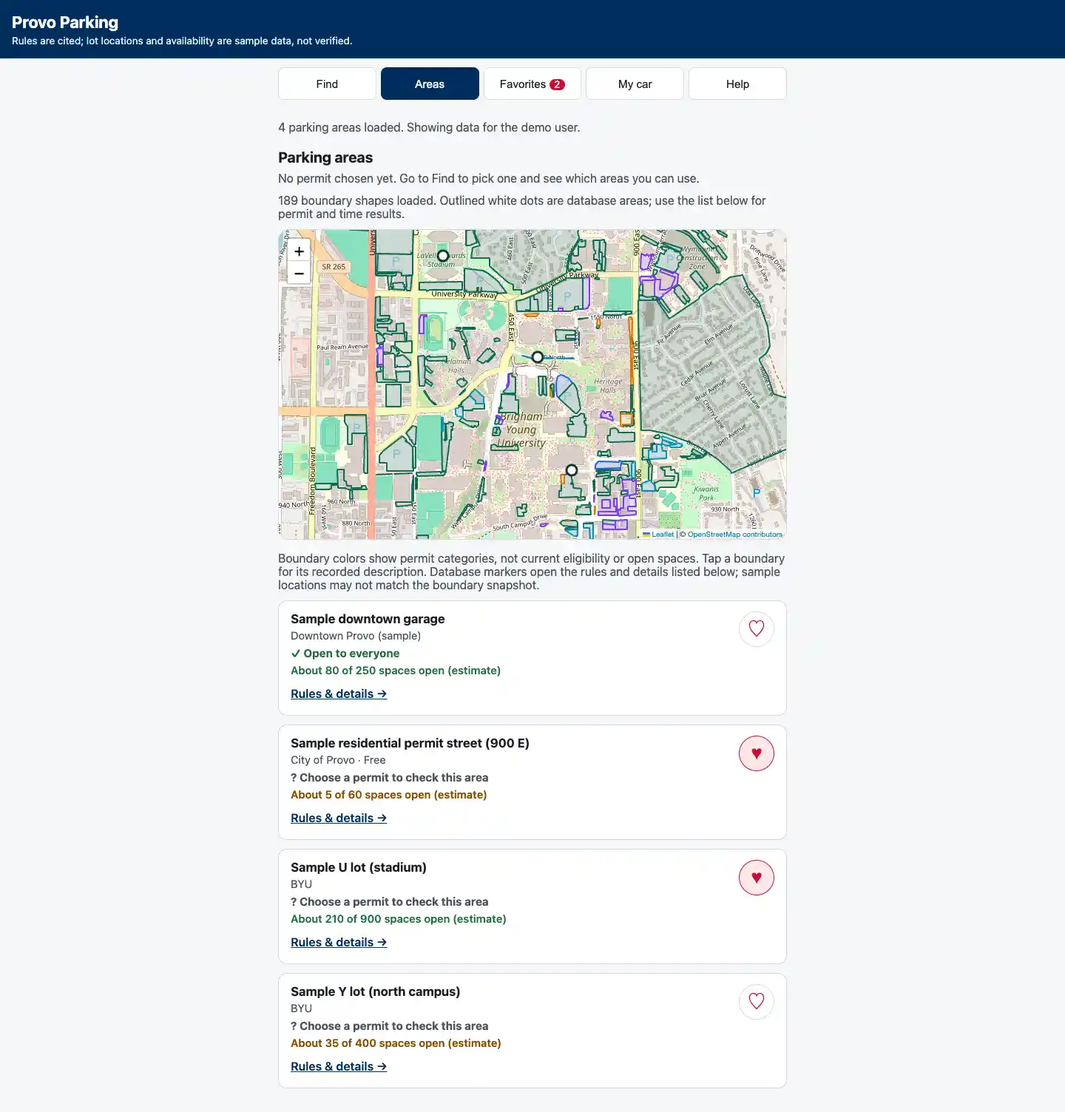
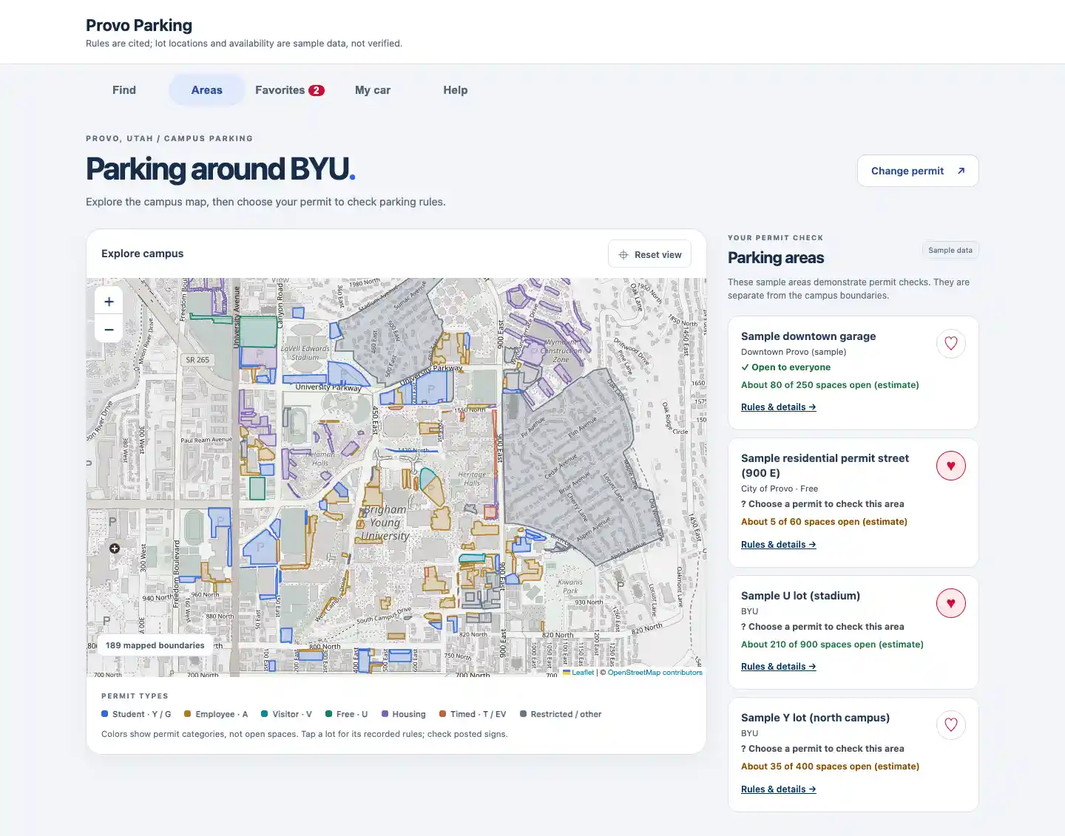
Remove sample map circles and refine the Areas interface

diff --git a/css/styles.css b/css/styles.css
@@ -70,6 +70,87 @@ select:focus-visible, input:focus-visible, .primary:focus-visible, .secondary:fo
 .help a { color: var(--brand); }
 @media (max-width: 380px) { .tab { font-size: .78rem; } }
 
-.parking-map { height: 420px; margin: 12px 0 16px; border: 1px solid var(--border); border-radius: 14px; overflow: hidden; background: #e7edf0; }
-.parking-map .leaflet-control-attribution { font-size: 10px; }
-@media (max-width: 640px) { .parking-map { height: clamp(360px, 52vh, 480px); margin-inline: -4px; } }
+/* Areas: a quiet canvas with the parking boundaries in the foreground. */
+body:has(#view-areas:not([hidden])) { background: #f3f5f8; }
+body:has(#view-areas:not([hidden])) main { max-width: 1240px; padding-top: 38px; }
+body:has(#view-areas:not([hidden])) .tabs { max-width: 1240px; gap: 8px; }
+body:has(#view-areas:not([hidden])) .status:not(.error) { display: none; }
+body:has(#view-areas:not([hidden])) .top { padding: 20px max(24px, calc((100vw - 1208px) / 2)); background: #fff; color: #152943; border-bottom: 1px solid #dfe5ed; }
+body:has(#view-areas:not([hidden])) .sample-note { color: #52647a; font-size: .78rem; }
+body:has(#view-areas:not([hidden])) .tab { flex: none; min-width: 104px; border: 0; border-radius: 30px; background: transparent; color: #52647a; font-weight: 600; }
+body:has(#view-areas:not([hidden])) .tab[aria-current="page"] { background: #e0e9fc; color: #214da7; }
+.areas-heading { display: flex; justify-content: space-between; align-items: center; gap: 20px; margin-bottom: 28px; }
+.eyebrow { font-size: .65rem; letter-spacing: .15em; font-weight: 750; color: #5c6c80; margin: 0 0 10px; }
+.areas-heading h2 { font-size: clamp(1.9rem, 3vw, 2.65rem); line-height: 1.15; letter-spacing: -.045em; color: #172d49; margin: 0 0 12px; }
+.areas-heading h2 span { color: #3168dc; }
+.areas-heading .summary { font-size: .9rem; margin: 0; color: #52647a; }
+.permit-link { flex-shrink: 0; display: inline-flex; gap: 18px; align-items: center; min-height: 44px; padding: 0 18px; background: #fff; border: 1px solid #cfd8e5; border-radius: 12px; text-decoration: none; color: #254b89; font-weight: 650; font-size: .85rem; }
+.permit-link:hover { border-color: #3168dc; background: #eef3ff; }
+.parking-workspace { display: grid; grid-template-columns: minmax(0, 1fr) 340px; gap: 28px; align-items: start; }
+.map-panel { background: #fff; border: 1px solid #dbe2eb; border-radius: 22px; overflow: hidden; box-shadow: 0 8px 26px #183b6010; }
+.map-toolbar { padding: 14px 20px; display: flex; align-items: center; justify-content: space-between; gap: 12px; }
+.map-toolbar h3 { margin: 0; font-size: .9rem; color: #263d58; font-weight: 650; }
+.map-reset { border: 1px solid #dbe2eb; background: #fff; color: #435871; font: inherit; font-size: .75rem; font-weight: 600; border-radius: 9px; min-height: 38px; padding: 0 12px; cursor: pointer; }
+.map-reset span { font-size: 1.1rem; margin-right: 4px; }
+.map-reset:hover { background: #f0f4fb; }
+.map-reset:disabled { cursor: default; opacity: .5; }
+.map-stage { position: relative; }
+.parking-map { height: 540px; width: 100%; background: #e9edf1; z-index: 0; }
+.parking-map .leaflet-tile-pane { filter: saturate(.12) brightness(1.04) contrast(.9); }
+.parking-map .leaflet-control-zoom { border: 1px solid #d6dfe8; border-radius: 12px; overflow: hidden; box-shadow: 0 3px 12px #19385814; }
+.parking-map .leaflet-control-zoom a { width: 38px; height: 38px; line-height: 38px; color: #274666; background: #fff; font-size: 22px; }
+.parking-map .leaflet-control-attribution { font-size: 10px; background: #ffffffed; }
+.map-status { position: absolute; left: 14px; bottom: 28px; z-index: 1; max-width: calc(100% - 28px); margin: 0; border: 1px solid #d8e1ed; border-radius: 9px; padding: 8px 11px; background: #fffffff2; color: #3b526d; font-size: .69rem; font-weight: 650; box-shadow: 0 2px 8px #183b6010; pointer-events: none; }
+.map-key { padding: 20px 20px 12px; }
+.key-title { font-size: .61rem; font-weight: 750; letter-spacing: .14em; color: #607187; margin: 0 0 12px; }
+.map-legend { display: flex; flex-wrap: wrap; gap: 10px 18px; list-style: none; padding: 0; margin: 0; }
+.map-legend li { display: flex; gap: 6px; align-items: center; font-size: .7rem; color: #45566b; font-weight: 550; }
+.legend-dot { width: 9px; height: 9px; border-radius: 3px; display: inline-block; flex-shrink: 0; }
+.map-note { margin: 0; padding: 0 20px 18px; font-size: .72rem; color: #566980; line-height: 1.55; }
+.parking-results { min-width: 0; }
+.results-heading { display: flex; align-items: center; justify-content: space-between; gap: 8px; padding: 7px 0 0; }
+.results-heading .eyebrow { margin-bottom: 8px; font-size: .59rem; }
+.results-heading h3 { margin: 0; font-size: 1.35rem; letter-spacing: -.025em; color: #172d49; }
+.sample-label { border: 1px solid #d7dfe9; background: #edf1f6; color: #56677d; padding: 5px 8px; border-radius: 7px; font-size: .62rem; white-space: nowrap; }
+.results-note { color: #5d6e83; font-size: .75rem; line-height: 1.5; margin: 12px 0 18px; }
+.parking-results .cards { gap: 10px; }
+.parking-results .card { border-color: #dbe2eb; padding: 17px; border-radius: 15px; }
+.parking-results .card h3 { color: #243b58; font-size: .9rem; line-height: 1.4; }
+.parking-results .meta { font-size: .72rem; }
+.parking-results .elig, .parking-results .avail { font-size: .76rem; line-height: 1.45; }
+.parking-results .link { font-size: .75rem; margin-top: 8px; }
+.parking-results .heart { flex-shrink: 0; width: 40px; height: 40px; font-size: 1.25rem; }
+.parking-map .leaflet-popup-content-wrapper { border-radius: 16px; box-shadow: 0 7px 28px #18344c25; }
+.lot-popup { color: #243b58; font-family: system-ui, sans-serif; }
+.lot-popup-type { color: #5c7089; font-size: .65rem; }
+.lot-popup h3 { font-size: 1.4rem; margin: 6px 0 10px; letter-spacing: -.035em; }
+.lot-popup-permit { display: inline-block; background: #eaf0fd; color: #2954a0; border-radius: 6px; padding: 4px 8px; font-size: .7rem; font-weight: 650; }
+.lot-popup p { font-size: .78rem; line-height: 1.6; margin: 12px 0 0; }
+.permit-link:focus-visible, .map-reset:focus-visible { outline: 3px solid #3168dc; outline-offset: 3px; }
+@media (max-width: 980px) {
+  .parking-workspace { grid-template-columns: minmax(0, 1fr); gap: 30px; }
+  .parking-results .cards { grid-template-columns: repeat(2, minmax(0, 1fr)); }
+  .parking-map { height: 470px; }
+}
+@media (max-width: 600px) {
+  body:has(#view-areas:not([hidden])) main { padding: 26px 16px 32px; }
+  body:has(#view-areas:not([hidden])) .top { padding: 16px 20px; }
+  body:has(#view-areas:not([hidden])) .tabs { gap: 0; padding-inline: 12px; }
+  body:has(#view-areas:not([hidden])) .tab { flex: 1; min-width: 0; padding: 0 6px; font-size: .8rem; }
+  .areas-heading { display: block; margin-bottom: 22px; }
+  .areas-heading .eyebrow { font-size: .58rem; }
+  .areas-heading h2 { font-size: 1.9rem; }
+  .areas-heading .summary { font-size: .8rem; line-height: 1.5; }
+  .permit-link { margin-top: 16px; min-height: 40px; padding: 0 12px; font-size: .75rem; }
+  .map-panel { border-radius: 18px; }
+  .map-toolbar { padding: 10px 14px; }
+  .parking-map { height: 420px; }
+  .map-key { padding: 16px 14px 12px; }
+  .map-legend { gap: 10px 14px; }
+  .map-legend li { font-size: .65rem; }
+  .map-note { padding: 0 14px 16px; font-size: .68rem; }
+  .parking-results .cards { grid-template-columns: 1fr; }
+  .parking-results .card { padding: 18px; }
+  .parking-results .heart { width: 44px; height: 44px; }
+}
+.map-stage:has(.parking-map[hidden]) .map-status { position: static; margin: 14px; max-width: none; box-shadow: none; }

diff --git a/js/pages/map.js b/js/pages/map.js
@@ -7,21 +7,28 @@ function setMapStatus(message) {
   if (el) el.textContent = message;
 }
 
-function coordinates(area) {
-  const lat = area.latitude;
-  const lng = area.longitude;
-  if (lat == null || lng == null || String(lat).trim() === "" || String(lng).trim() === "") return null;
-  const point = [Number(lat), Number(lng)];
-  return Number.isFinite(point[0]) && Math.abs(point[0]) <= 90 &&
-    Number.isFinite(point[1]) && Math.abs(point[1]) <= 180 ? point : null;
+const categories = [
+  { label: "Student · Y / G", color: "#3168dc", codes: ["Y", "G"] },
+  { label: "Employee · A", color: "#b07b23", codes: ["A"] },
+  { label: "Visitor · V", color: "#07859a", codes: ["V"] },
+  { label: "Free · U", color: "#16806b", codes: ["U"] },
+  { label: "Housing", color: "#8062b3", codes: ["B", "C", "D", "YM", "YV", "BCD"] },
+  { label: "Timed · T / EV", color: "#c2643a", codes: ["T", "EV"] },
+  { label: "Restricted / other", color: "#687589", codes: [] },
+];
+
+function boundaryStyle(feature) {
+  const permit = feature?.properties?.permit_typ;
+  const category = categories.find((item) => item.codes.includes(permit)) || categories.at(-1);
+  return { color: category.color, weight: 1.6, fillColor: category.color, fillOpacity: 0.24 };
 }
 
-export async function initMap({ areas }) {
+export async function initMap() {
   const el = document.querySelector("#parking-map");
   if (!el) return;
   if (!window.L) {
     el.hidden = true;
-    setMapStatus("Map unavailable. Use the parking list below to view rules and details.");
+    setMapStatus("Map unavailable. Use the parking list to view rules and details.");
     return;
   }
   if (map) { refreshMap(); return; }
@@ -33,17 +40,12 @@ export async function initMap({ areas }) {
       attribution: '&copy; <a href="https://www.openstreetmap.org/copyright">OpenStreetMap contributors</a>'
     }).addTo(map);
 
-    // Show database markers immediately, even if the geometry request fails.
-    const markers = [];
-    for (const area of areas || []) {
-      const point = coordinates(area);
-      if (!point) continue;
-      const details = Number.isInteger(area.area_id) && area.area_id > 0
-        ? `<br><a href="#area/${area.area_id}">Rules &amp; details</a>` : "";
-      const marker = L.circleMarker(point, { radius: 7, color: "#17332b", fillColor: "#ffffff", fillOpacity: 0.95, weight: 3 })
-        .bindPopup(`<strong>${escapeHtml(area.area_name)}</strong><br>${escapeHtml(area.lot_code || "")}${details}`)
-        .addTo(map);
-      markers.push(marker);
+    const legend = document.getElementById("map-legend");
+    if (legend) legend.innerHTML = categories.map((item) => `<li><span class="legend-dot" style="background:${item.color}" aria-hidden="true"></span>${escapeHtml(item.label)}</li>`).join("");
+    const reset = document.getElementById("map-reset");
+    if (reset) {
+      reset.disabled = false;
+      reset.addEventListener("click", () => map.setView([40.2518, -111.6493], 15));
     }
     refreshMap();
     try {
@@ -52,28 +54,23 @@ export async function initMap({ areas }) {
       const geometry = await response.json();
       if (geometry.type !== "FeatureCollection" || !Array.isArray(geometry.features)) throw new Error("Invalid boundary snapshot");
       L.geoJSON(geometry, {
-        style: (feature) => {
-          const permit = feature?.properties?.permit_typ || "";
-          const color = !permit || permit === "No BYU Parking" ? "#5d6878" : permit === "V" ? "#2563eb" : permit === "T" ? "#d97706" : permit === "R" ? "#7c3aed" : permit === "G" ? "#0891b2" : "#126b53";
-          return { color, weight: 2, fillColor: color, fillOpacity: 0.16 };
-        },
+        style: boundaryStyle,
         onEachFeature: (feature, layer) => {
           const p = feature.properties || {};
-          layer.bindPopup(`<strong>${escapeHtml(p.Lot_Type || "BYU parking area")}</strong><br>Permit category: ${escapeHtml(p.permit_typ || "Not recorded")}<br>${escapeHtml(p.Descriptio || "See posted signage.")}`);
+          layer.bindPopup(`<div class="lot-popup"><span class="lot-popup-type">${escapeHtml(p.Map_Catego || "Parking boundary")}</span><h3>${escapeHtml(p.Lot_Type || "BYU parking area")}</h3><span class="lot-popup-permit">Permit ${escapeHtml(p.permit_typ || "not recorded")}</span><p>${escapeHtml(p.Descriptio || "See posted signage.")}</p></div>`, { maxWidth: 280 });
         }
       }).addTo(map);
-      for (const marker of markers) marker.bringToFront();
-      setMapStatus(`${geometry.features.length} boundary shapes loaded. Outlined white dots are database areas; use the list below for permit and time results.`);
+      setMapStatus(`${geometry.features.length} mapped boundaries`);
     } catch (error) {
       console.warn("[map] boundary snapshot unavailable", error);
-      setMapStatus("Lot boundaries unavailable. Database markers and the parking list are still available.");
+      setMapStatus("Lot boundaries unavailable. The parking list is still available.");
     }
   } catch (error) {
     console.warn("[map] unavailable", error);
     if (map) map.remove();
     map = null;
     el.hidden = true;
-    setMapStatus("Map unavailable. Use the parking list below to view rules and details.");
+    setMapStatus("Map unavailable. Use the parking list to view rules and details.");
   }
 }
 

diff --git a/tests/map.test.js b/tests/map.test.js
@@ -3,7 +3,7 @@ import assert from 'node:assert/strict';
 import { readFile } from 'node:fs/promises';
 import { initMap } from '../js/pages/map.js';
 
-test('map skips absent and out-of-range coordinates rather than plotting them at zero', async () => {
+test('map never plots sample database circles', async () => {
   const plotted = [];
   const map = { setView() { return this; }, fitBounds() {}, invalidateSize() {} };
   const layer = { addTo() { return this; }, bindPopup() { return this; }, bringToFront() {} };
@@ -13,7 +13,7 @@ test('map skips absent and out-of-range coordinates rather than plotting them at
     latLngBounds: (points) => points,
   } };
   globalThis.L = window.L;
-  globalThis.document = { querySelector: () => ({ hidden: false }), getElementById: () => ({ textContent: '' }) };
+  globalThis.document = { querySelector: () => ({ hidden: false }), getElementById: (id) => id === 'map-status' ? { textContent: '' } : null };
   const oldFetch = globalThis.fetch;
   globalThis.fetch = async () => ({ ok: true, json: async () => ({ type: 'FeatureCollection', features: [] }) });
   try {
@@ -22,7 +22,7 @@ test('map skips absent and out-of-range coordinates rather than plotting them at
       { latitude: null, longitude: null }, { latitude: '', longitude: '' },
       { latitude: 100, longitude: -111 }, { latitude: 40, longitude: -190 },
     ] });
-    assert.deepEqual(plotted, [[40.25, -111.65]]);
+    assert.deepEqual(plotted, []);
   } finally { globalThis.fetch = oldFetch; delete globalThis.L; delete globalThis.window; delete globalThis.document; }
 });
 
@@ -36,7 +36,7 @@ test('missing map library leaves a useful list fallback', async () => {
   const container = { hidden: false };
   const status = { textContent: '' };
   globalThis.window = {};
-  globalThis.document = { querySelector: () => container, getElementById: () => status };
+  globalThis.document = { querySelector: () => container, getElementById: (id) => id === 'map-status' ? status : null };
   try {
     await init({ areas: [] });
     assert.equal(container.hidden, true);
@@ -44,7 +44,7 @@ test('missing map library leaves a useful list fallback', async () => {
   } finally { delete globalThis.window; delete globalThis.document; }
 });
 
-test('failed boundary download keeps database markers available with a visible warning', async () => {
+test('failed boundary download keeps the parking list available with a visible warning', async () => {
   const { initMap: init } = await import('../js/pages/map.js?failed-boundaries');
   const plotted = [];
   const status = { textContent: '' };
@@ -52,16 +52,16 @@ test('failed boundary download keeps database markers available with a visible w
   const layer = { addTo() { return this; }, bindPopup() { return this; } };
   globalThis.window = { L: { map: () => map, tileLayer: () => layer,
     circleMarker: (point) => { plotted.push(point); return layer; } } };
-  globalThis.document = { querySelector: () => ({}), getElementById: () => status };
+  globalThis.document = { querySelector: () => ({}), getElementById: (id) => id === 'map-status' ? status : null };
   const oldFetch = globalThis.fetch;
   const oldWarn = console.warn;
   globalThis.fetch = async () => ({ ok: false, status: 404 });
   console.warn = () => {};
   try {
     await init({ areas: [{ area_id: 1, area_name: 'Test lot', latitude: 40.25, longitude: -111.65 }] });
-    assert.equal(plotted.length, 1);
+    assert.equal(plotted.length, 0);
     assert.match(status.textContent, /boundaries unavailable/);
-    assert.match(status.textContent, /markers and the parking list are still available/);
+    assert.match(status.textContent, /parking list is still available/);
   } finally { globalThis.fetch = oldFetch; console.warn = oldWarn; delete globalThis.window; delete globalThis.document; }
 });
 
@@ -72,7 +72,7 @@ test('boundary colors distinguish visitor permits from YV and mark missing or pr
   const layer = { addTo() { return this; } };
   globalThis.window = { L: { map: () => map, tileLayer: () => layer,
     geoJSON: (_, options) => { style = options.style; return layer; } } };
-  globalThis.document = { querySelector: () => ({}), getElementById: () => ({ textContent: '' }) };
+  globalThis.document = { querySelector: () => ({}), getElementById: (id) => id === 'map-status' ? { textContent: '' } : null };
   const oldFetch = globalThis.fetch;
   globalThis.fetch = async () => ({ ok: true, json: async () => ({ type: 'FeatureCollection', features: [] }) });
   try {

diff --git a/index.html b/index.html
@@ -56,12 +56,26 @@
 
     <!-- Screen 2: Areas — list with eligibility -->
     <section id="view-areas" aria-labelledby="h-areas" hidden>
-      <h2 id="h-areas" tabindex="-1">Parking areas</h2>
-      <p id="areas-summary" class="summary"></p>
-      <p id="map-status" class="summary" role="status">Loading parking map…</p>
-      <div id="parking-map" class="parking-map" role="region" aria-label="BYU parking map" aria-describedby="map-note"></div>
-      <p id="map-note" class="summary">Boundary colors show permit categories, not current eligibility or open spaces. Tap a boundary for its recorded description. Database markers open the rules and details listed below; sample locations may not match the boundary snapshot.</p>
-      <ul id="area-list" class="cards"></ul>
+      <div class="areas-heading">
+        <div><p class="eyebrow">PROVO, UTAH / CAMPUS PARKING</p><h2 id="h-areas" tabindex="-1">Parking around BYU<span>.</span></h2><p id="areas-summary" class="summary"></p></div>
+        <a class="permit-link" href="#find">Change permit <span aria-hidden="true">↗</span></a>
+      </div>
+      <div class="parking-workspace">
+        <div class="map-panel">
+          <div class="map-toolbar"><h3>Explore campus</h3><button id="map-reset" type="button" class="map-reset" disabled><span aria-hidden="true">⌖</span> Reset view</button></div>
+          <div class="map-stage">
+            <div id="parking-map" class="parking-map" role="region" aria-label="BYU parking map" aria-describedby="map-note"></div>
+            <p id="map-status" class="map-status" role="status">Loading campus boundaries…</p>
+          </div>
+          <div class="map-key"><p class="key-title">PERMIT TYPES</p><ul id="map-legend" class="map-legend" aria-label="Parking boundary colors"></ul></div>
+          <p id="map-note" class="map-note">Colors show permit categories, not open spaces. Tap a lot for its recorded rules; check posted signs.</p>
+        </div>
+        <aside class="parking-results" aria-labelledby="results-heading">
+          <div class="results-heading"><div><p class="eyebrow">YOUR PERMIT CHECK</p><h3 id="results-heading">Parking areas</h3></div><span class="sample-label">Sample data</span></div>
+          <p class="results-note">These sample areas demonstrate permit checks. They are separate from the campus boundaries.</p>
+          <ul id="area-list" class="cards"></ul>
+        </aside>
+      </div>
     </section>
 
     <!-- Screen 3: Area details — plain-language rules -->

diff --git a/js/pages/areas.js b/js/pages/areas.js
@@ -15,6 +15,6 @@ export function renderAreas() {
   const { permitId, day, time } = state.find;
   const permit = state.permits.find((p) => p.permit_id === permitId);
   $("areas-summary").textContent = permit
-    ? `Showing ${DAY_NAMES[day]} at ${fmtTime(time)} with the ${permit.permit_name} permit. Change this on the Find screen.`
-    : "No permit chosen yet. Go to Find to pick one and see which areas you can use.";
+    ? `${permit.permit_name} · ${DAY_NAMES[day]} at ${fmtTime(time)}`
+    : "Explore the campus map, then choose your permit to check parking rules.";
 }

diff --git a/js/router.js b/js/router.js
@@ -29,7 +29,7 @@ export function showView() {
     if (t.dataset.view === tabFor) t.setAttribute("aria-current", "page"); else t.removeAttribute("aria-current");
   });
   renderViews();
-  if (state.currentView === "areas") void initMap({ areas: state.areas });
+  if (state.currentView === "areas") void initMap();
   if (state.currentView === "car") renderCar(); else stopTimer();
   document.querySelector(`#view-${state.currentView} h2[tabindex]`)?.focus({ preventScroll: true });
   window.scrollTo(0, 0);

diff --git a/docs/map-integration.md b/docs/map-integration.md
@@ -1,33 +1,31 @@
 # BYU map integration — PR #11
 
-The Areas screen now includes a Leaflet 1.9.4 map over OpenStreetMap tiles, the 189 boundary features supplied in PR #11, and markers for database parking areas with valid coordinates. Tap a boundary for its recorded permit category and description; tap a white database marker to open the existing area details page.
+The Areas screen includes a Leaflet 1.9.4 map with the 189 BYU boundary features supplied in PR #11. Sample database location circles have been removed at Parker's request. Tap a boundary for its recorded permit category and description. The separate parking list retains the existing database permit/day/time checks and detail links.
 
-The map is initialized after Areas becomes visible and resized on return. It does not delay loading the rest of the application. The same parking list remains available for keyboard and screen reader use. Boundary colors describe categories, not eligibility or occupancy; permit/day/time eligibility still comes from the existing database rules and appears in the list. The snapshot has no verified join to database area IDs. Do not infer one from proximity.
+## Interface
 
-## Fixes during integration
+- Map and permit results sit side by side on laptops, then stack on phones.
+- Street tiles are desaturated through CSS so colored parking boundaries stand out; linked OpenStreetMap attribution stays visible.
+- A labeled legend explains student, employee, visitor, U, housing, timed and restricted/other categories. Color is not the only way to identify a category: every boundary popup shows the category text.
+- Reset view returns to the campus center at zoom 15. Wheel zoom is disabled to make page scrolling easier.
+- The map initializes after Areas becomes visible, resizes on return, and does not delay loading the rest of the app. Missing map resources leave the list available with a visible message.
+- The correct [Leaflet stylesheet integrity hash](https://leafletjs.com/download) and `data/` in the Pages artifact fix the original PR's deployment issues.
 
-- Corrected the Leaflet CSS integrity hash to the [official published value](https://leafletjs.com/download).
-- Included `data/` in the GitHub Pages artifact, preventing a missing boundary file after deployment.
-- Kept database markers usable when the boundary download fails, with a visible warning; missing Leaflet falls back to the list.
-- Rejected null, empty, nonfinite and out-of-range coordinates rather than plotting them at zero.
-- Added app detail links to database marker popups and kept these markers above boundary shapes.
-- Used exact permit categories so YV is not mistaken for V; absent / No BYU Parking categories use neutral gray.
-- Used a bounded map height on phones and turned off wheel zoom so scrolling the page does not unexpectedly zoom the map.
-- Preserved linked OpenStreetMap attribution and used the standard tile URL. See the [tile usage policy](https://operations.osmfoundation.org/policies/tiles/). No bulk tile downloads or offline prefetching.
+## Data limitations
 
-## Data provenance and limitations
+Colors show categories, not current eligibility or occupancy. The boundary snapshot has no verified join to database area IDs. The list is labeled as sample data and kept visually distinct from the boundary map. No database rows, policies or credentials changed.
 
-`data/byu-campus-parking.json` is the unchanged snapshot supplied by PR #11. Its fields include Lot, Lot_Type, permit_typ and Descriptio. The original ArcGIS service identifier, retrieval date and verification record were not included in that PR, so this integration does not certify its descriptions as current official parking rules. Compare with [BYU's campus map](https://map.byu.edu/) and posted signs when verifying lots. Database lot coordinates, occupancy estimates and tow contacts remain samples. This is not a live occupancy feed or a navigation engine.
+`data/byu-campus-parking.json` remains the original PR snapshot. Its original ArcGIS service identifier, retrieval date and verification record were not supplied, so current official-rule verification remains outstanding. Compare with [BYU's campus map](https://map.byu.edu/) and posted signs. Database lot coordinates, occupancy estimates and tow contacts remain samples.
+
+The map uses the standard OpenStreetMap tile URL, preserves attribution and performs no bulk downloads or offline prefetching. See the [tile usage policy](https://operations.osmfoundation.org/policies/tiles/).
 
 ## Verification — November 1, 2026
 
-- All 22 Node tests pass, including coordinate validation, permit category distinctions, missing-library fallback and failed boundary download. The coordinate and deployment tests failed against the original PR; the category test exposed the YV/V collision before its fix.
-- Every JS file passes `node --check`; `git diff --check` passes.
-- Local preview using the app's existing public Supabase configuration: four areas and 189 boundary shapes load; no browser console errors/warnings observed in the normal path.
-- Y permit / Monday / 08:00: Y and U sample lots allowed, residential street not covered. Boundaries stay category based, as explained on screen.
-- Tapped a boundary and read its popup; tapped the stadium database marker and followed its Rules & details link to the existing area page.
-- Reload and returning from details to Areas retain a correctly sized map. Saved permit choice is preserved; arrival defaults retain existing behavior.
-- Lighthouse accessibility: 100/100 at phone 390×844 and laptop 1440×900, no run warnings. Captures visually inspected; this is emulation, not a manual real-phone or screen-reader certification. Lighthouse also reports an existing unscored visible-label/name mismatch on list links (`Rules & details` versus `Rules and details`); it is outside this map integration.
-- Screenshots: `docs/screens/map/phone.png` and `laptop.png`. Full Lighthouse HTML/JSON reports are in the workspace outputs folder.
+- All 22 Node tests pass. Regression tests verify no database sample circles are plotted, category colors distinguish V/YV and restricted/unknown areas, failed boundary requests preserve the list, and missing Leaflet produces a useful fallback. The no-circle tests failed before removing the markers.
+- Every JS file passes syntax checks; `git diff --check` passes.
+- Interactive local preview against the existing public Supabase configuration: 189 boundaries load, no sample circles, seven legend entries, boundary popup, zoom and Reset view work. No console errors/warnings observed in the normal path.
+- Responsive preview checked at actual viewport widths 433px and 1061px; no horizontal document overflow. Temporary viewport override reset afterward.
+- The earlier Y/Monday/08:00 eligibility and map-to-details checks applied before the visual revision. Map marker-to-details links have now been intentionally removed with the circles; list detail links and eligibility logic remain unchanged.
+- Lighthouse reports must be checked against screenshots of the loaded map: initial audit attempts captured only the loading screen and are not valid evidence. A 15-second FCP/load delay captures the rendered map. The final loaded-map audits at 390×844 and 1440×900 each scored 100/100 accessibility with no run warnings. Both screenshots were inspected. The existing unscored visible-label/name mismatch on list links remains (Rules & details versus Rules and details); manual screen-reader testing is not claimed.
 
-No database schema/policy changes, timer PR merges, Trello edits, or production deployment were performed. Main is unchanged. The repository contribution guide requires a teammate to pull, test and review before squash-merging. After that merge, verify the GitHub Pages deployment and live map.
+Screenshots: `docs/screens/map/phone.png` and `laptop.png`; full reports are in the workspace outputs folder. Review remains pending before squash merge under `docs/CONTRIBUTING.md`, followed by live Pages verification. No timer PR integration, Trello edits or production deployment were performed.

diff --git a/README.md b/README.md
@@ -163,4 +163,4 @@ Testing note: the screen logic was checked in a headless browser against an in-m
 
 ### Map integration (PR #11)
 
-The Areas map combines a BYU boundary snapshot with existing database markers and links to area details. Boundary categories do not indicate live availability or permit eligibility. See [map integration and verification](docs/map-integration.md) for data limitations and testing. Implementation is ready for teammate review; merge and live deployment verification are pending.
+The Areas map displays a BYU boundary snapshot without sample location circles, alongside a separate list of database areas. A subdued base map and labeled permit-color legend help distinguish the boundaries. Boundary categories do not indicate live availability or permit eligibility. See [map integration and verification](docs/map-integration.md) for data limitations and testing. Implementation is ready for teammate review; merge and live deployment verification are pending.
